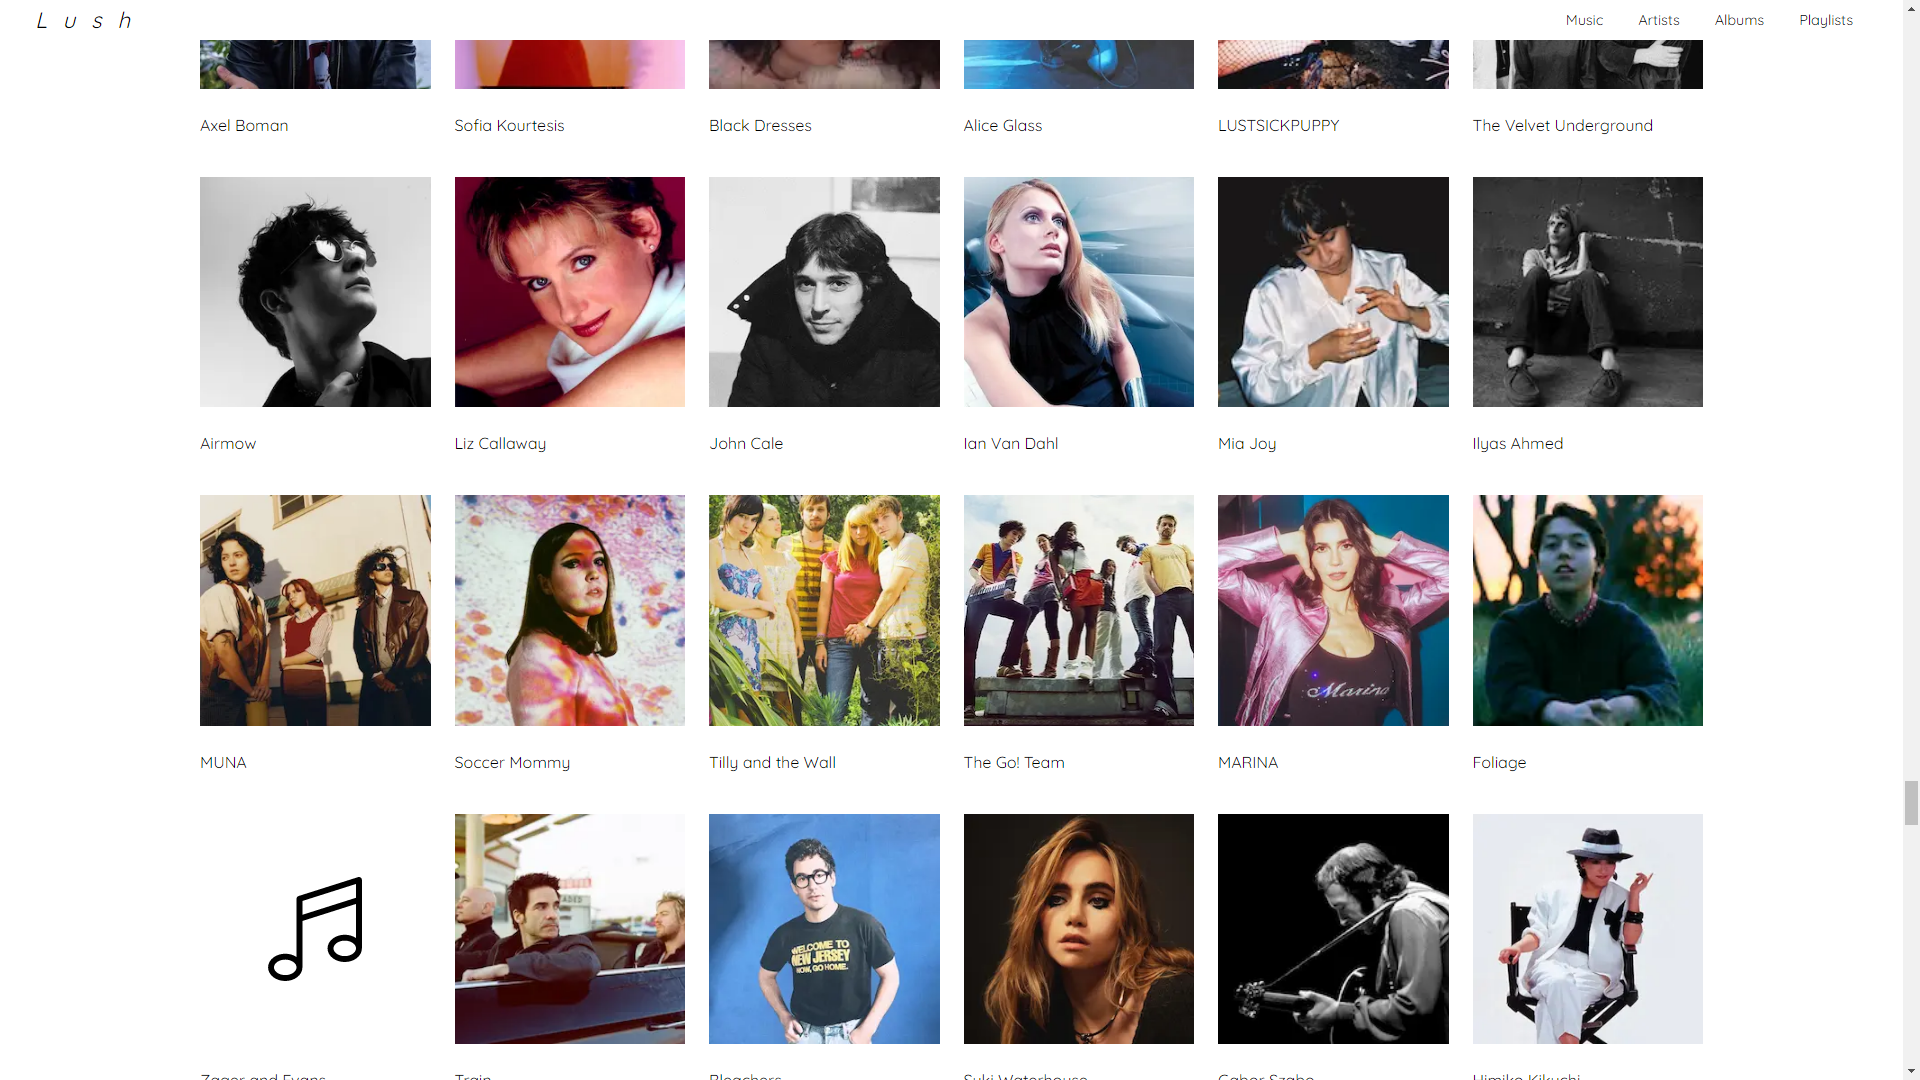
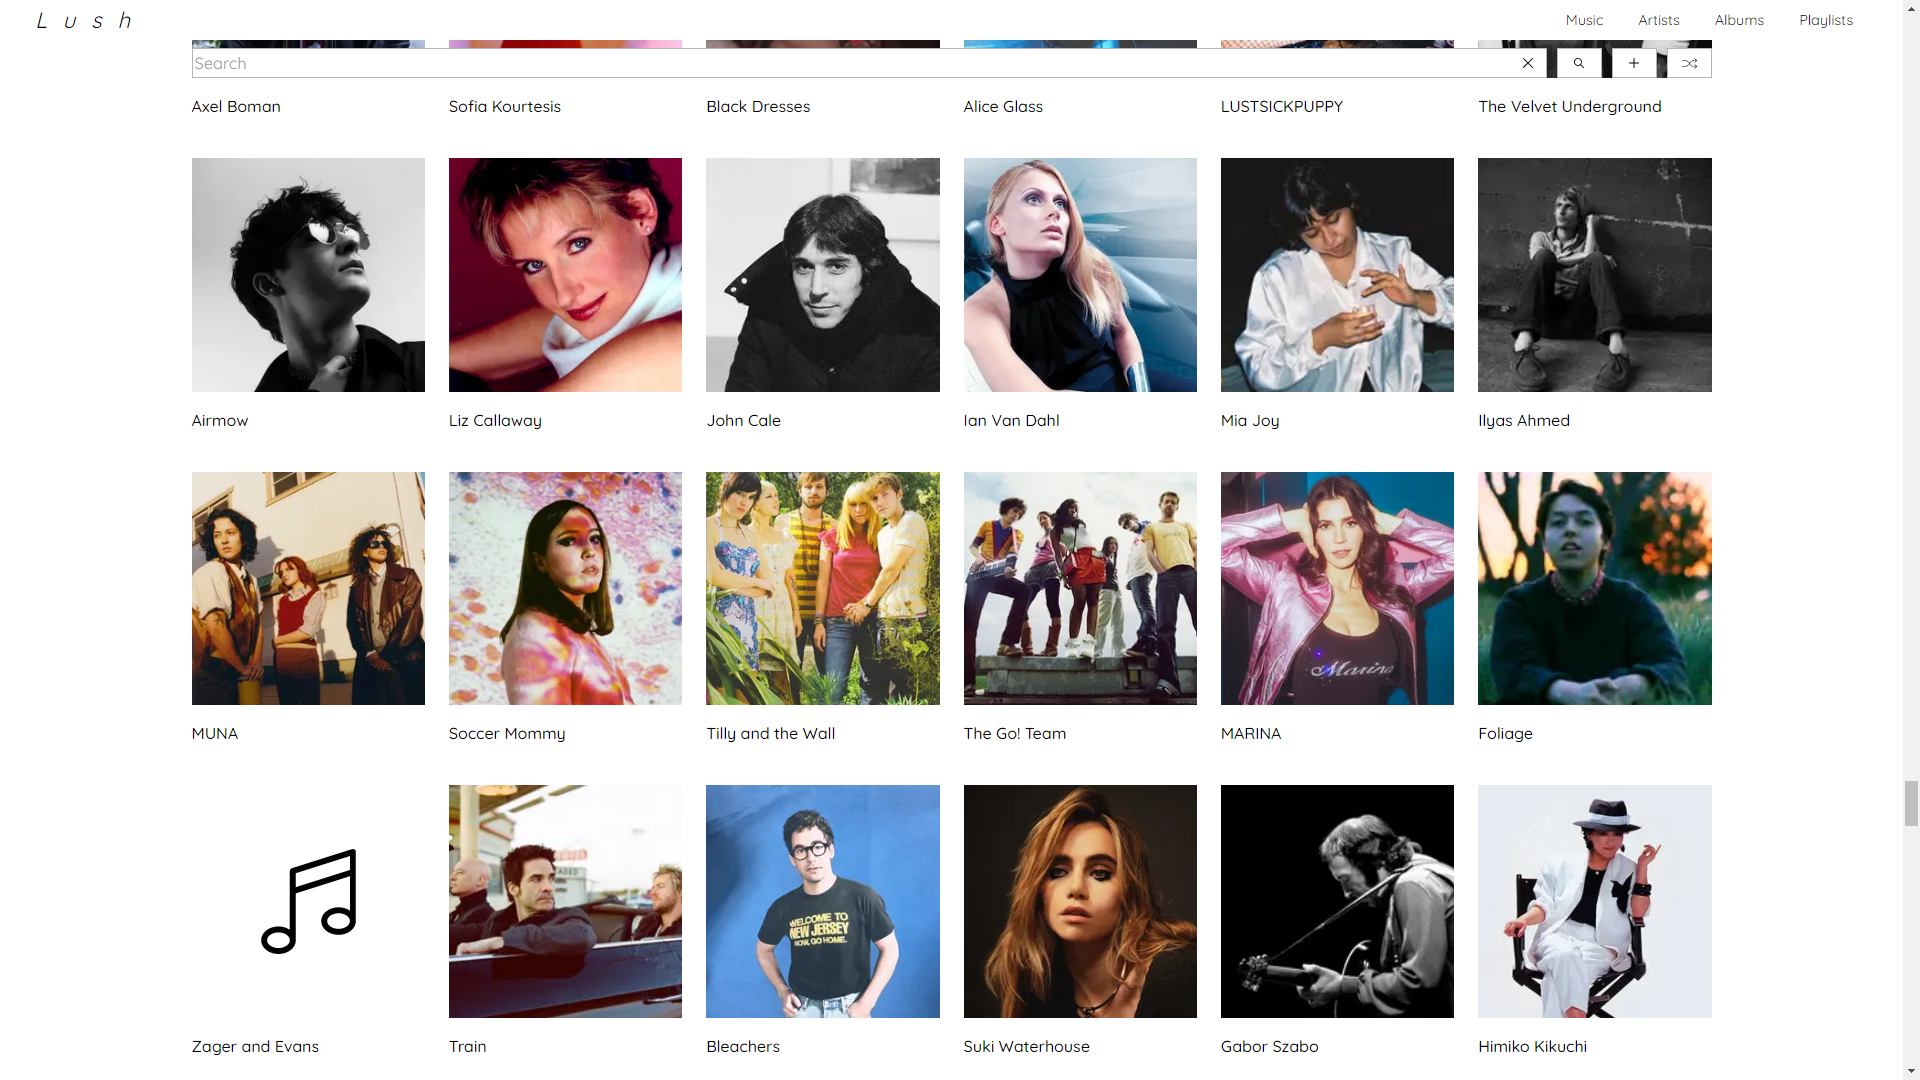
Update screenshots

diff --git a/src/components/SearchBar.tsx b/src/components/SearchBar.tsx
@@ -42,7 +42,7 @@ const SearchBar = () => {
   }
 
   return (
-    <div className="sticky top-[4.0625rem] z-20 mt-[1.5625rem] mb-[0.9375rem]">
+    <div className="sticky top-12 z-20 mt-[1.5625rem] mb-[0.9375rem]">
       <div className="flex h-[1.875rem] w-full gap-[0.625rem]">
         <div className="relative flex-1 border border-[#b4b4b4]">
           <input
